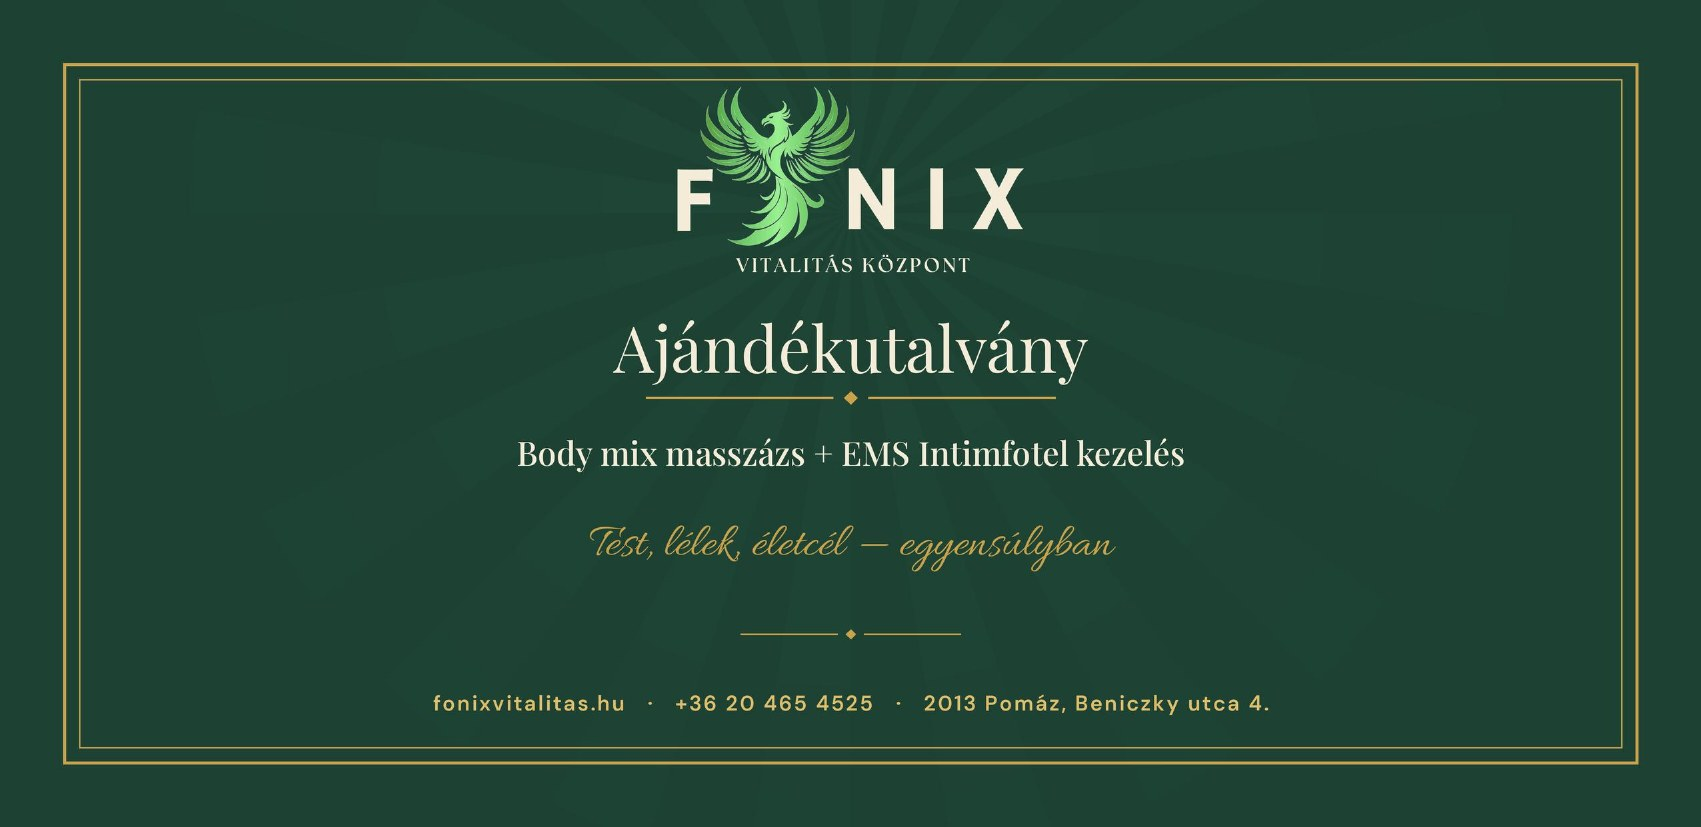
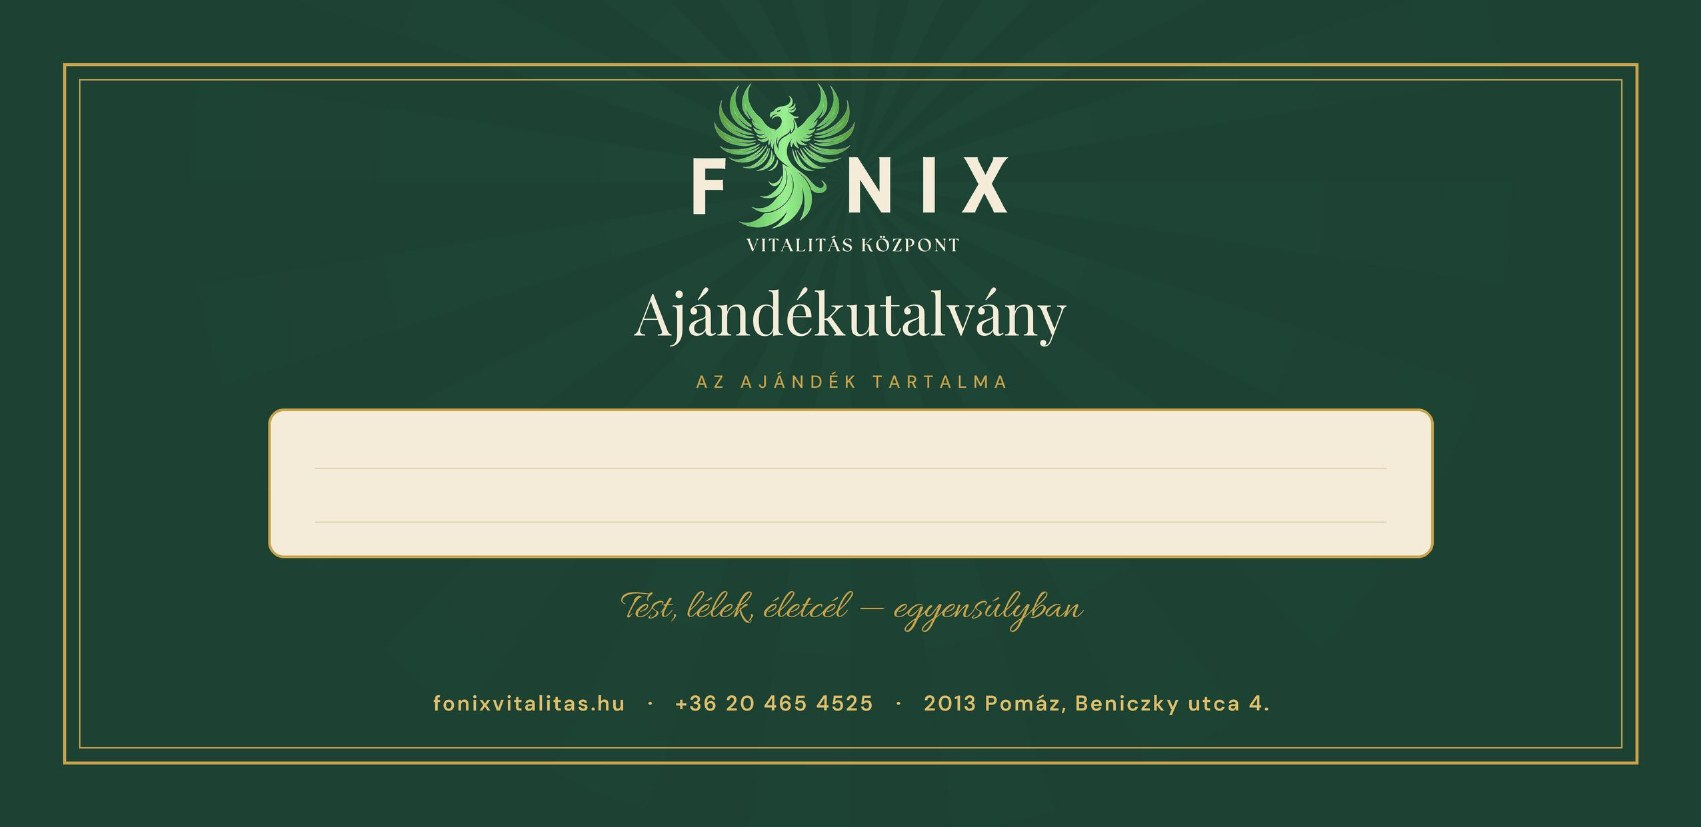
Add files via upload

Changed region(s): [[0.1558, 0.0907, 0.8413, 0.786]]

diff --git a/index.html b/index.html
@@ -130,17 +130,23 @@
             <a href="#" class="flex items-center shrink-0">
                 <img src="logo.png" alt="Főnix Vitalitás Központ" class="h-16 lg:h-24 w-auto object-contain mix-blend-multiply" onerror="this.outerHTML='<span class=\'text-3xl font-serif font-bold text-fonix-green\'>Főnix</span>'">
             </a>
-            <div class="hidden xl:flex flex-grow justify-evenly items-center text-sm uppercase tracking-widest font-bold">
-                <a href="#rolunk" class="hover:text-fonix-green transition">Rólunk</a>
-                <a href="#vitalitas-utja" class="hover:text-fonix-green transition">Szolgáltatásaink</a>
-                <a href="#orarend" class="hover:text-fonix-green transition">Órarend</a>
-                <a href="#ajandekutalvany" onclick="openUtalvany(); return false;" class="hover:text-fonix-green transition flex items-center gap-1.5"><i class="fas fa-gift text-fonix-gold"></i> Ajándékutalvány</a>
-                <a href="#galeria" class="hover:text-fonix-green transition">Galéria</a>
-                <a href="#velemenyek" class="hover:text-fonix-green transition">Vélemények</a>
-                <a href="#csapat" class="hover:text-fonix-green transition">Csapat</a>
-                <a href="#teremberles" class="hover:text-fonix-green transition">Terembérlés</a>
-                <a href="#kapcsolat" class="hover:text-fonix-green transition">Kapcsolat</a>
-                <a href="#idopontfoglalas" class="bg-fonix-gold text-fonix-bg px-6 py-3 rounded hover:bg-fonix-green hover:text-fonix-bg transition duration-300 font-extrabold shadow-md transform hover:scale-105 cta-button-pop flex items-center gap-2">
+            <div class="hidden xl:flex flex-grow items-center gap-10 pl-10">
+                <div class="flex-grow flex flex-col gap-3 text-sm uppercase tracking-widest font-bold">
+                    <div class="flex justify-evenly items-center">
+                        <a href="#rolunk" class="hover:text-fonix-green transition">Rólunk</a>
+                        <a href="#vitalitas-utja" class="hover:text-fonix-green transition">Szolgáltatásaink</a>
+                        <a href="#orarend" class="hover:text-fonix-green transition">Órarend</a>
+                        <a href="#ajandekutalvany" onclick="openUtalvany(); return false;" class="hover:text-fonix-green transition flex items-center gap-1.5 text-fonix-green"><i class="fas fa-gift text-fonix-gold"></i> Ajándékutalvány</a>
+                    </div>
+                    <div class="flex justify-evenly items-center">
+                        <a href="#galeria" class="hover:text-fonix-green transition">Galéria</a>
+                        <a href="#velemenyek" class="hover:text-fonix-green transition">Vélemények</a>
+                        <a href="#csapat" class="hover:text-fonix-green transition">Csapat</a>
+                        <a href="#teremberles" class="hover:text-fonix-green transition">Terembérlés</a>
+                        <a href="#kapcsolat" class="hover:text-fonix-green transition">Kapcsolat</a>
+                    </div>
+                </div>
+                <a href="#idopontfoglalas" class="bg-fonix-gold text-fonix-bg px-6 py-3 rounded hover:bg-fonix-green hover:text-fonix-bg transition duration-300 font-extrabold shadow-md transform hover:scale-105 cta-button-pop flex items-center gap-2 text-sm uppercase tracking-widest shrink-0">
                     <i class="fas fa-calendar-check"></i> IDŐPONTFOGLALÁS
                 </a>
             </div>
@@ -1396,11 +1402,11 @@
                         <div class="px-8 pb-8 pt-6">
                             <div class="grid md:grid-cols-2 gap-8 items-center mb-8">
                                 <div>
-                                    <p class="text-fonix-dark/80 leading-relaxed mb-4">Ajándékozz feltöltődést! Kezeléseink és masszázsaink ajándékutalvány formájában is elérhetők – igényes, nyomtatott kivitelben, a választott szolgáltatás nevével. <strong class="text-fonix-green">Az utalvány tartalma tetszés szerint összeállítható:</strong> lehet egyetlen kezelés, masszázs, vagy bármilyen kombináció – a képen látható csomag csak egy minta a sok lehetőség közül. Az utalvány a kiállítástól számított <strong class="text-fonix-green">12 hónapig érvényes és átruházható</strong>, így a megajándékozott akkor váltja be, amikor neki a legjobb.</p>
-                                    <p class="text-fonix-dark/80 leading-relaxed">Az előre összeállított utalványcsomagok és az árak az online foglalási felületen, az <strong class="text-fonix-green">Ajándékutalvány</strong> csoportban találhatók – ott rögtön meg is rendelheted, vagy hívj minket, és a recepción készítjük el.</p>
+                                    <p class="text-fonix-dark/80 leading-relaxed mb-4">Ajándékozz feltöltődést! Kezeléseink és masszázsaink ajándékutalvány formájában is elérhetők – igényes, nyomtatott kivitelben, a választott szolgáltatás nevével. <strong class="text-fonix-green">Az utalvány tartalma tetszés szerint összeállítható:</strong> lehet egyetlen kezelés, masszázs, vagy bármilyen kombináció – a választott ajándék kerül az utalvány "Az ajándék tartalma" mezőjébe. Az utalvány a kiállítástól számított <strong class="text-fonix-green">12 hónapig érvényes és átruházható</strong>, így a megajándékozott akkor váltja be, amikor neki a legjobb.</p>
+                                    <p class="text-fonix-dark/80 leading-relaxed">Kétféleképpen juthatsz hozzá: a recepción a <strong class="text-fonix-green">kész, előre nyomtatott utalványok</strong> közül választhatsz, vagy <strong class="text-fonix-green">megrendeled online</strong> a foglalási felületen, az Ajándékutalvány csoportban, és mi elkészítjük neked. Az előre összeállított csomagok és az árak is ott találhatók.</p>
                                 </div>
                                 <figure class="rounded-xl overflow-hidden shadow-lg border border-fonix-gold/30">
-                                    <img src="ajandekutalvany.jpg" alt="Főnix Vitalitás Központ ajándékutalvány – minta" class="w-full h-auto" loading="lazy">
+                                    <img src="ajandekutalvany.jpg" alt="Főnix Vitalitás Központ ajándékutalvány – minta" width="1701" height="827" class="w-full h-auto block" onload="var c=document.getElementById('cat-utalvany'); if(c && c.classList.contains('active')) c.style.maxHeight=c.scrollHeight+'px';">
                                     <figcaption class="text-xs text-fonix-dark/50 italic text-center py-2 bg-white">Az utalvány nyomtatott előlapja (minta)</figcaption>
                                 </figure>
                             </div>
@@ -1417,7 +1423,7 @@
                                 <i class="fas fa-gift text-fonix-gold text-3xl shrink-0"></i>
                                 <div class="flex-grow">
                                     <div class="font-serif font-bold text-fonix-green mb-1">Utalvány megrendelése</div>
-                                    <p class="text-sm text-fonix-dark/70 leading-relaxed">Online a foglalási felületen az Ajándékutalvány csoportban, telefonon, vagy személyesen a recepción – egyedi összeállítást telefonon vagy a recepción kérhetsz.</p>
+                                    <p class="text-sm text-fonix-dark/70 leading-relaxed">Kész utalványok a recepción; egyedi összeállítás megrendelésre – online a foglalási felületen, vagy telefonon.</p>
                                 </div>
                                 <div class="flex flex-col sm:flex-row gap-3 w-full sm:w-auto shrink-0">
                                     <a href="https://egyeni.fonixvitalitas.hu" target="_blank" rel="noopener" class="inline-flex items-center justify-center gap-2 bg-fonix-gold text-fonix-bg font-bold px-6 py-3 rounded-lg hover:bg-fonix-green hover:text-white transition duration-300 shadow-md whitespace-nowrap w-full sm:w-auto">
